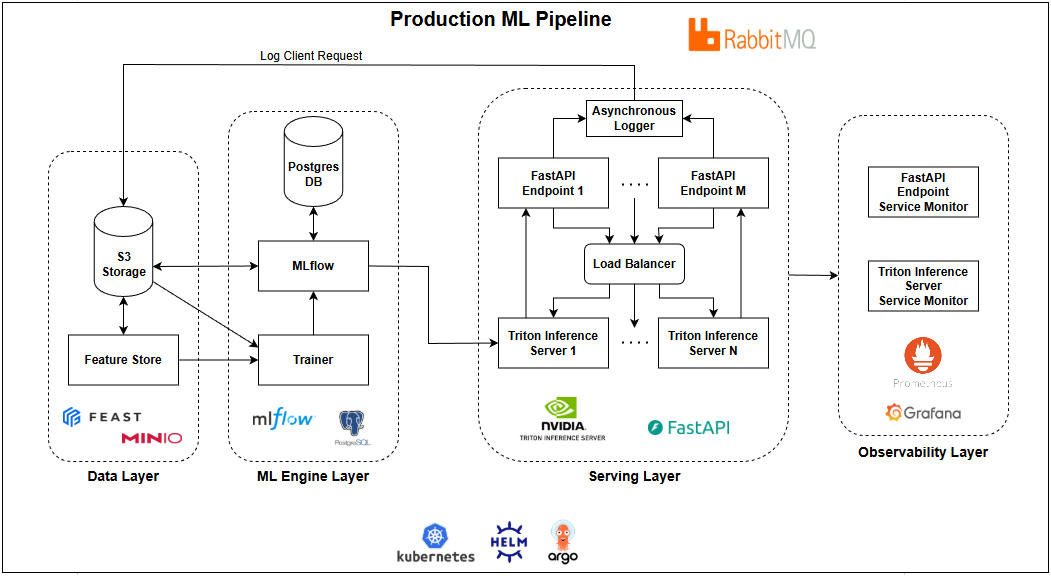
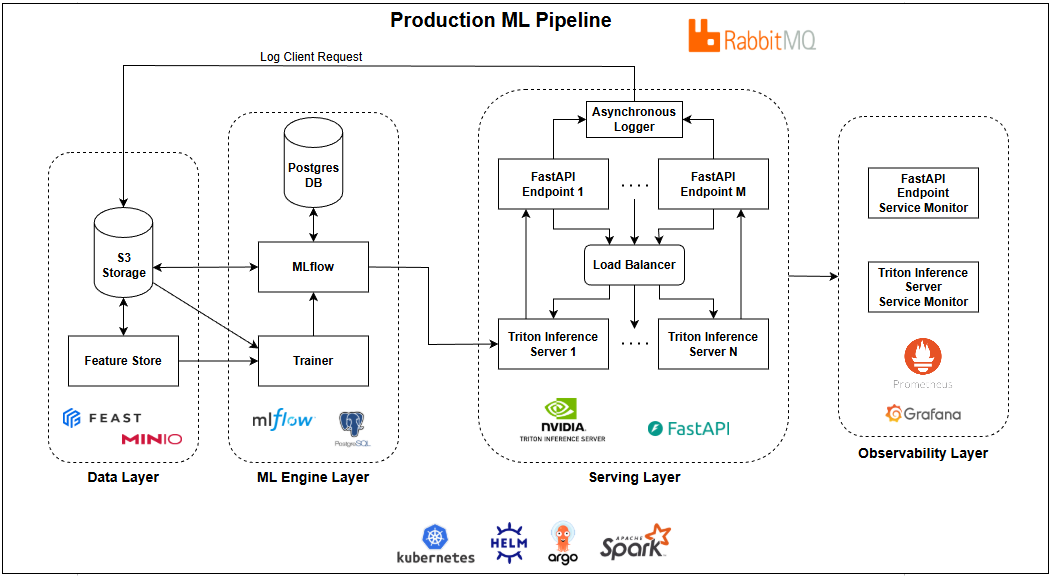
Update main README.md with Apache Spark

diff --git a/README.md b/README.md
@@ -6,6 +6,7 @@
 2. **비용 효율적 성능 최적화**: Triton Model Analyzer를 통해 하드웨어 제한 내 최적의 처리량(Throughput)을 내는 'Golden Config' 도출
 3. **선형적 확장성 구현**: 최적화된 단일 Pod를 기반으로 클러스터 부하에 따라 유연하게 대응하는 선형적 확장 체계 구축
 4. **인프라의 코드화(IaC) 및 자동화**: Helm과 ArgoCD를 활용하여 배포 과정을 표준화하고 Git 기반의 지속적 배포(CD) 실현
+5. **대용량 데이터 처리 역량 확보**: **PySpark**를 도입하여 메모리 한계(OOM)를 극복하고, GB~TB 단위의 데이터도 안정적으로 처리할 수 있는 분산 처리 환경 구축
 
 ### 시스템 아키텍처
 ![Overview](images/overview.png)
@@ -18,7 +19,7 @@
 
 ### 핵심 기술 스택
 - **Infrastructure**: Kubernetes, Docker, Helm, ArgoCD, RabbitMQ
-- **Data/Feature**: Feast, MinIO (S3), PostgreSQL
+- **Data/Feature**: Feast, MinIO (S3), PostgreSQL, PySpark (Distributed ETL)
 - **Model Serving**: NVIDIA Triton Inference Server, FastAPI, Model Analyzer
 - **ML Lifecycle**: MLflow (Tracking & Registry)
 - **Observability**: Prometheus, Grafana
@@ -27,11 +28,13 @@
 이 시스템은 데이터 소스로부터 추론 서비스까지 총 3단계의 파이프라인으로 구성됩니다.
 
 ### Data & Feature Pipeline (준비 단계)
-- **Raw Data Ingestion**: 원천 데이터(CSV)를 **MinIO (S3)** 에 업로드하고, ```feature-store``` 컨테이너가 이를 읽어 Parquet 포맷으로 변환 후 오프라인 스토어(S3)에 저장합니다. 
-- **Feature Management (Feast)**: 학습과 추론에 공통으로 사용될 FeatureView를 정의합니다. ```Materialize``` 과정을 통해 온라인 스토어(현재는 미사용)에 최신 데이터를 동기화하여 추론 시 저지연(Low-latency) 조회를 가능케 합니다. 
+- **Distributed ETL (PySpark)**: 원천 데이터(CSV)가 대용량일 경우 단일 프로세스(일반적으로 Pandas)로는 처리가 불가능합니다. 본 프로젝트는 Spark Cluster(Local Mode)를 활용하여 데이터를 분산 로드하고, 집계(Aggregation) 및 조인 연산을 수행한 뒤 Parquet 포맷으로 최적화하여 MinIO(S3)에 저장합니다.
+- **S3 Connectivity**: Hadoop-AWS 라이브러리(```s3a://```)를 통해 Spark가 S3 객체 스토리지에 직접 접근하여 고속으로 데이터를 읽고 씁니다.
+- **Feature Management (Feast)**: Spark로 정제된 Parquet 파일을 기반으로 FeatureView를 정의합니다. 학습과 추론에 공통으로 사용될 데이터를 표준화하여 관리합니다.
 
 ### Model Training & Lifecycle (학습 및 관리 단계)
-- **Training**: Feast에서 ```get_historical_features```를 통해 정합성이 보장된 데이터셋을 추출하여 모델을 학습합니다. 관심사의 분리(Separation of Concerns) 원칙을 지키기위해 학습 Label은 Feature Store에 저장하지않고 S3에서 CSV 파일에서 직접 추출합니다.
+- **Training Dataset Construction**: 학습 시 Feature Store에서 데이터를 추출할 때도 **PySpark**를 사용합니다. 대규모 Feature 데이터와 Label 데이터를 Spark DataFrame으로 로드하여 분산 병합(Join)함으로써 데이터셋 생성 단계에서의 병목을 최소화합니다.
+- **Training**: 정제된 데이터셋을 통해 모델을 학습하며, Label은 Feature Store에 저장하지 않고 S3에서 관리하여 관심사의 분리(Separation of Concerns)를 실현했습니다.
 - **Model Registry (MLflow)**: 학습된 모델은 **ONNX** 포맷으로 변환되어 관리합니다.
   - **Postgres (Backend Store)**: 하이퍼파라미터, 성능 메트릭, 모델 버전 등 **메타데이터** 저장
   - **MinIO (Artifact Store)**: 실제 모델 파일(```.onnx```)과 Triton 설정파일(```.pbtxt)```) 등 **대용량 파일** 저장  
@@ -51,6 +54,7 @@
 3. **비동기 로깅  아키텍처 (RabbitMQ + Worker)**: 추론 요청 처리(Critical Path)와 로그 저장(Non-critical Path)를 분리했습니다. MinIO(S3) 네트워크 지연이나 장애가 발생하더라도, 사용자에게 반환되는 추론 응답 속도에는 영향을 주지 않도록 **결합도(Decoupling)**을 낮췄습니다.
 4. **Artifact & Metadata 분리**: 무거운 모델은 S3(MinIO)에, 가벼운 이력 정보는 RDB(Postgres)에 저장하여 데이터 처리 효율과 쿼리 성능을 모두 잡기위함 입니다.
 5. **Feature Store 도입**: 학습시 사용한 Feature 계산 로직을 추론 시에도 그대로 재사용하여 **Training-Serving Skew** 문제를 차단하기위함 입니다.
+6. **대용량 분산 처리 도입 (PySpark)**: 데이터 수집 및 전처리(ETL) 단계에 **Apache Spark**를 도입하여, 단일 머신의 메모리를 초과하는 대용량 데이터셋도 안정적으로 처리할 수 있는 **분산 데이터 파이프라인**을 구축했습니다. S3(MinIO)와 Spark를 연동하여 I/O 병목을 최소화했으며, Parquet 포맷을 활용해 스토리지 효율성을 극대화했습니다.
 
 ## 4. 성능 최적화 전략 (Performance Optimization)
 본 프로젝트는 추론 시스템의 효율성을 극대화하기 위해 **수직적 최적화(Vertical)** 와 **수평적 확장(Horizontal)** 을 결합한 2단계 전략을 취합니다. 자세한 사용 방법은 [benchmarks/triton_analysis/README.md](./benchmarks/triton_analysis/README.md) 를 참조바랍니다.
